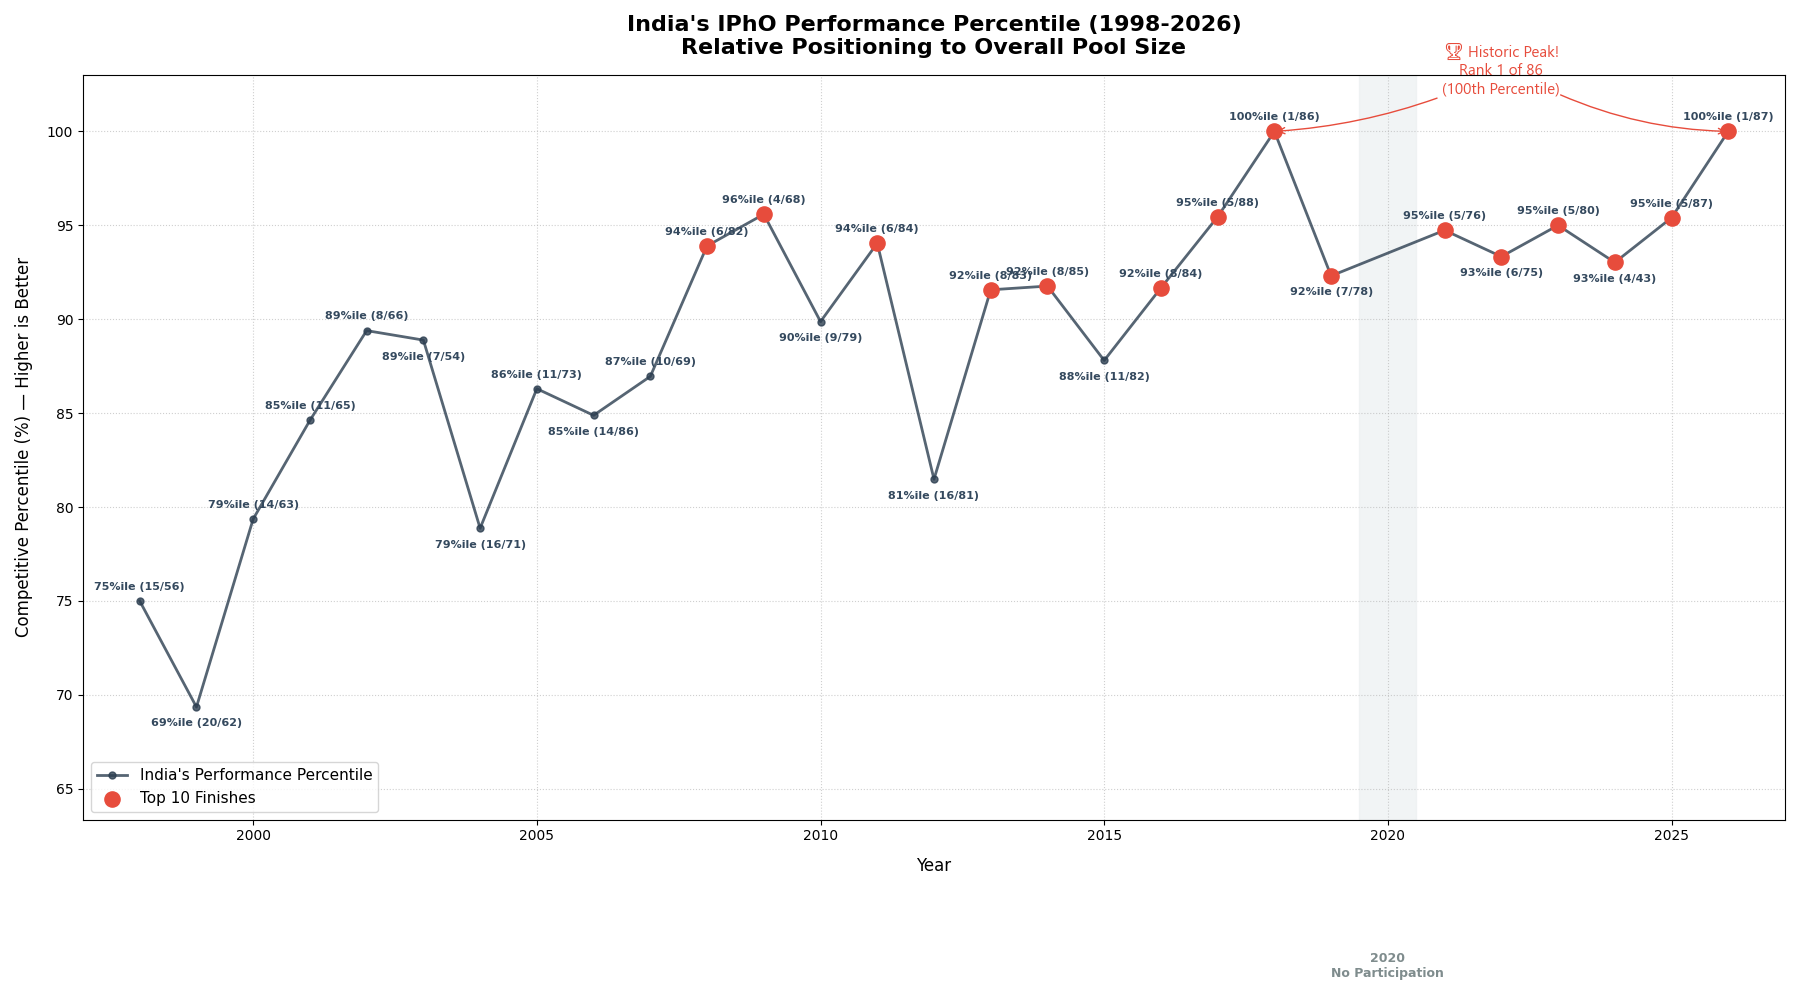
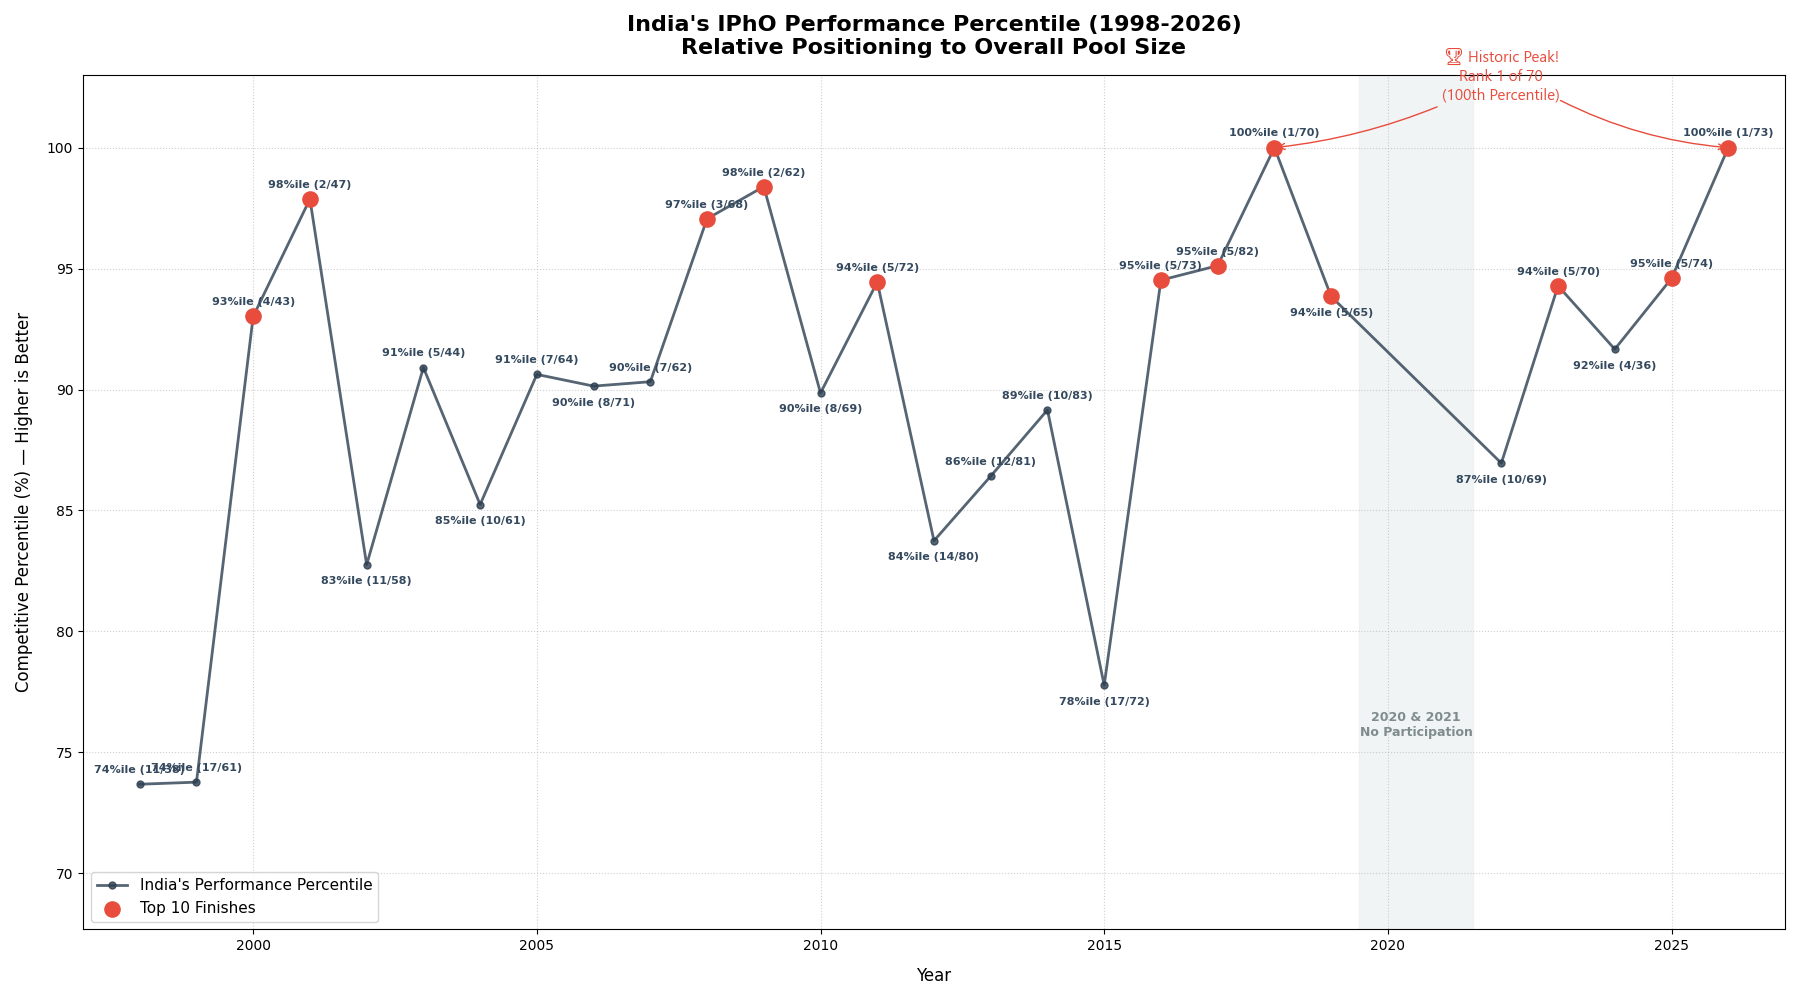
ipho_plot_minor

diff --git a/india_ipho_percentile.py b/india_ipho_percentile.py
@@ -5,34 +5,33 @@ import pandas as pd
 # Format: (Year, India's Unofficial Rank, Total Participating Countries)
 # Note: 2020 is omitted as the competition was cancelled due to the pandemic.
 ipho_data = [
-    (1998, 15, 56),
-    (1999, 20, 62),
-    (2000, 14, 63),
-    (2001, 11, 65),
-    (2002, 8, 66),
-    (2003, 7, 54),
-    (2004, 16, 71),
-    (2005, 11, 73),
-    (2006, 14, 86),
-    (2007, 10, 69),
-    (2008, 6, 82),
-    (2009, 4, 68),
-    (2010, 9, 79),
-    (2011, 6, 84),
-    (2012, 16, 81),
-    (2013, 8, 83),
-    (2014, 8, 85),
-    (2015, 11, 82),
-    (2016, 8, 84),
-    (2017, 5, 88),
-    (2018, 1, 86),
-    (2019, 7, 78),
-    (2021, 5, 76),
-    (2022, 6, 75),
-    (2023, 5, 80),
-    (2024, 4, 43),
-    (2025, 5, 87),
-    (2026, 1, 87),
+    (1998, 11, 38),
+    (1999, 17, 61),
+    (2000, 4, 43),
+    (2001, 2, 47),
+    (2002, 11, 58),
+    (2003, 5, 44),
+    (2004, 10, 61),
+    (2005, 7, 64),
+    (2006, 8, 71),
+    (2007, 7, 62),
+    (2008, 3, 68),
+    (2009, 2, 62),
+    (2010, 8, 69),
+    (2011, 5, 72),
+    (2012, 14, 80),
+    (2013, 12, 81),
+    (2014, 10, 83),
+    (2015, 17, 72),
+    (2016, 5, 73),
+    (2017, 5, 82),
+    (2018, 1, 70),
+    (2019, 5, 65),
+    (2022, 10, 69),
+    (2023, 5, 70),
+    (2024, 4, 36),
+    (2025, 5, 74),
+    (2026, 1, 73),
 ]
 
 # Create DataFrame
@@ -147,11 +146,11 @@ plt.grid(True, linestyle=":", alpha=0.6)
 plt.legend(loc="lower left", fontsize=11)
 
 # Informative visual anchor for the 2020 gap
-plt.axvspan(2019.5, 2020.5, color="#ecf0f1", alpha=0.7, zorder=1)
+plt.axvspan(2019.5, 2021.5, color="#ecf0f1", alpha=0.7, zorder=1)
 plt.text(
-    2020,
-    55,
-    "2020\nNo Participation",
+    2020.5,
+    minpct+2,
+    "2020 & 2021\nNo Participation",
     color="#7f8c8d",
     fontsize=9,
     ha="center",
